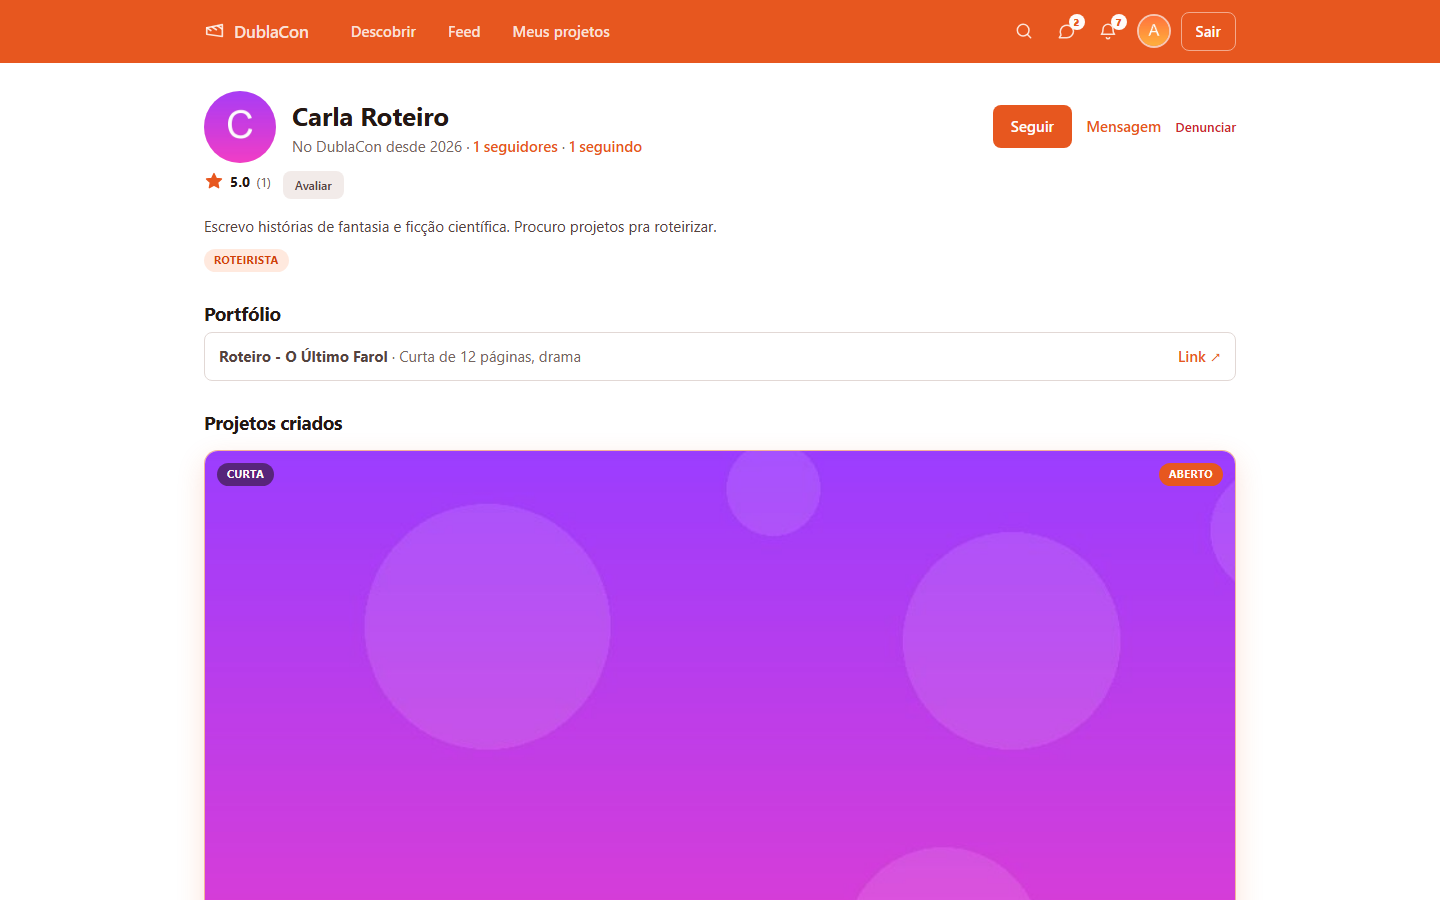
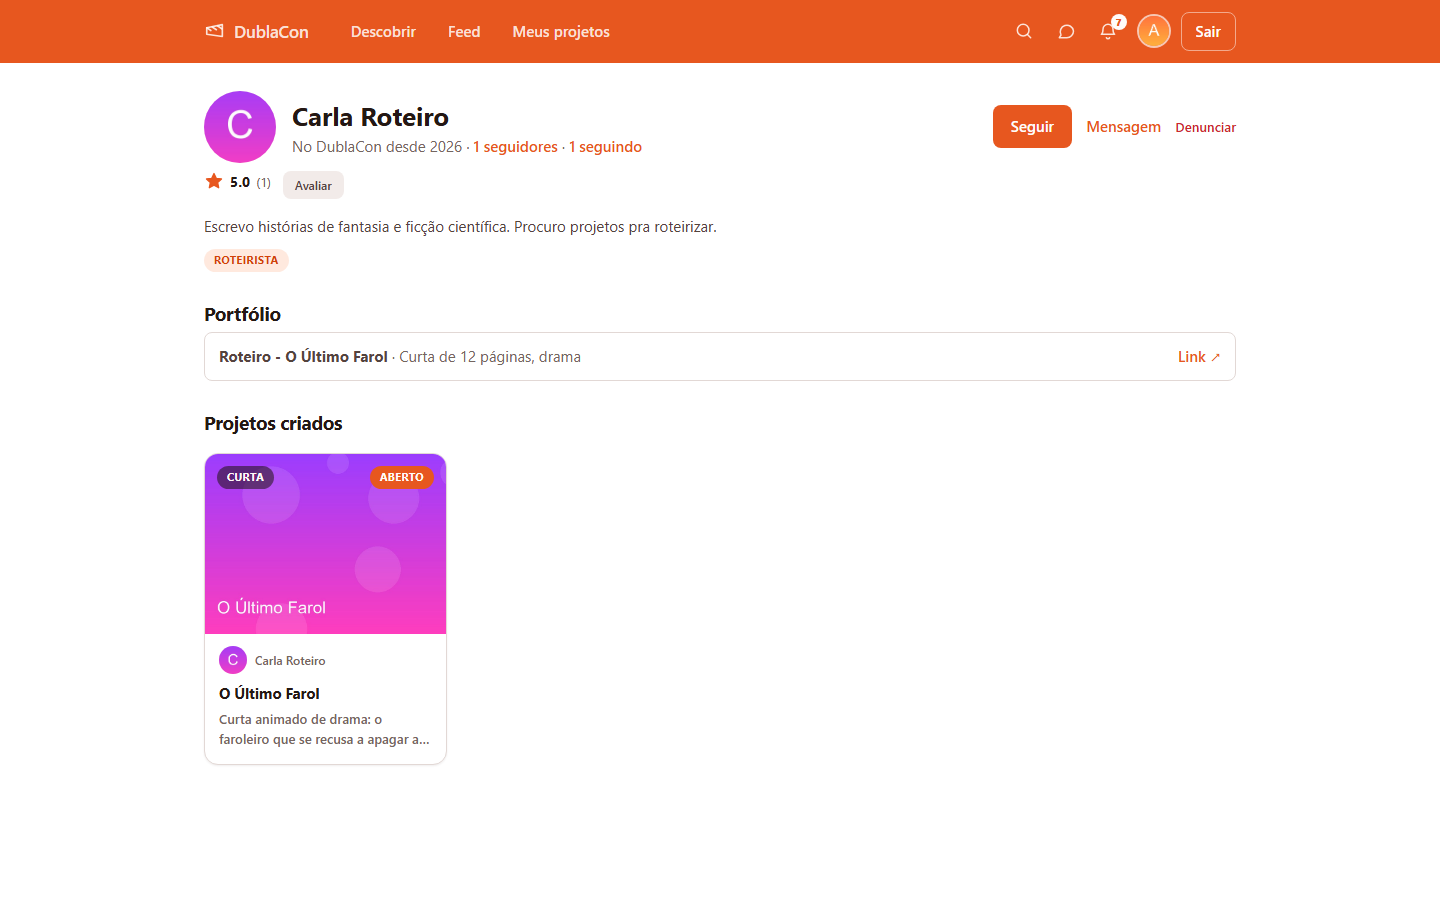
fix: keep project cards one column wide when there are few
The grid used repeat(auto-fit, ...), which collapses empty tracks, so a
profile with a single project stretched its card across the whole page.
auto-fill keeps the empty tracks. Retook docs/screenshots/03-profile.png.

diff --git a/frontend/src/components/ProjectCard.css b/frontend/src/components/ProjectCard.css
@@ -1,6 +1,8 @@
 .project-grid {
   display: grid;
-  grid-template-columns: repeat(auto-fit, minmax(240px, 1fr));
+  /* auto-fill (nao auto-fit) mantem as trilhas vazias: com um projeto so, o card
+     fica do tamanho de uma coluna em vez de esticar ate a largura toda */
+  grid-template-columns: repeat(auto-fill, minmax(240px, 1fr));
   gap: 20px;
   margin-top: 16px;
 }
